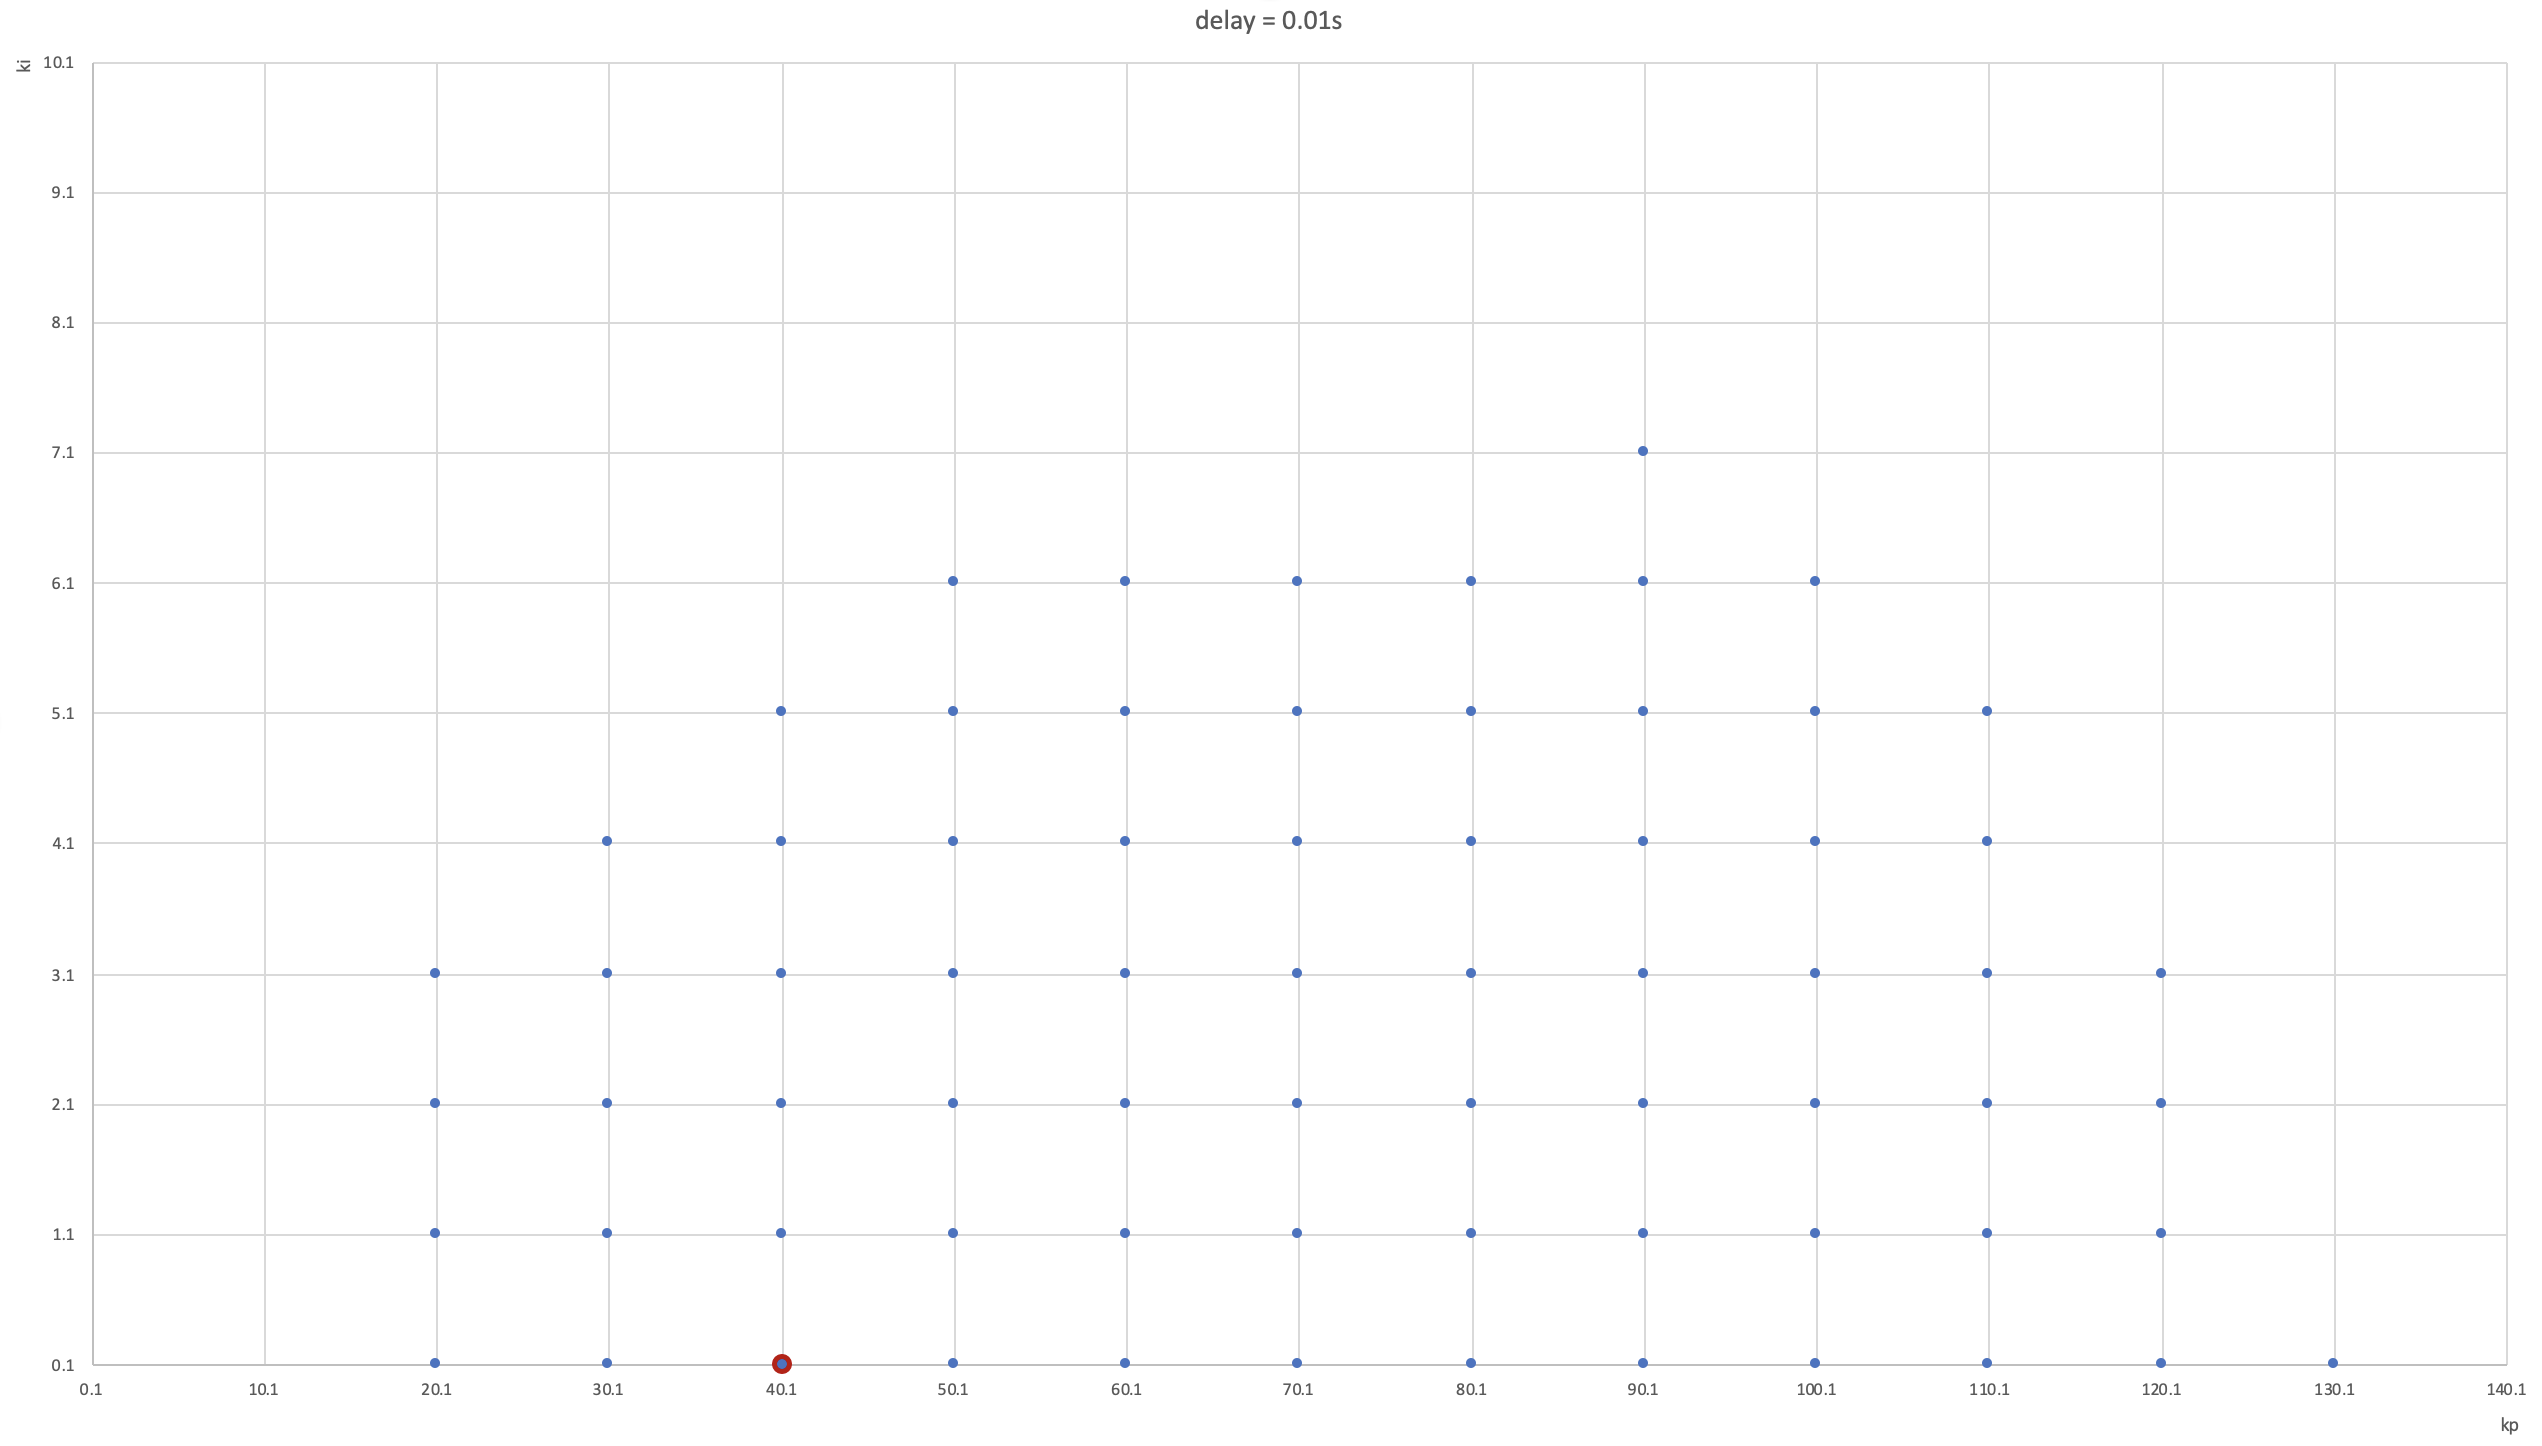
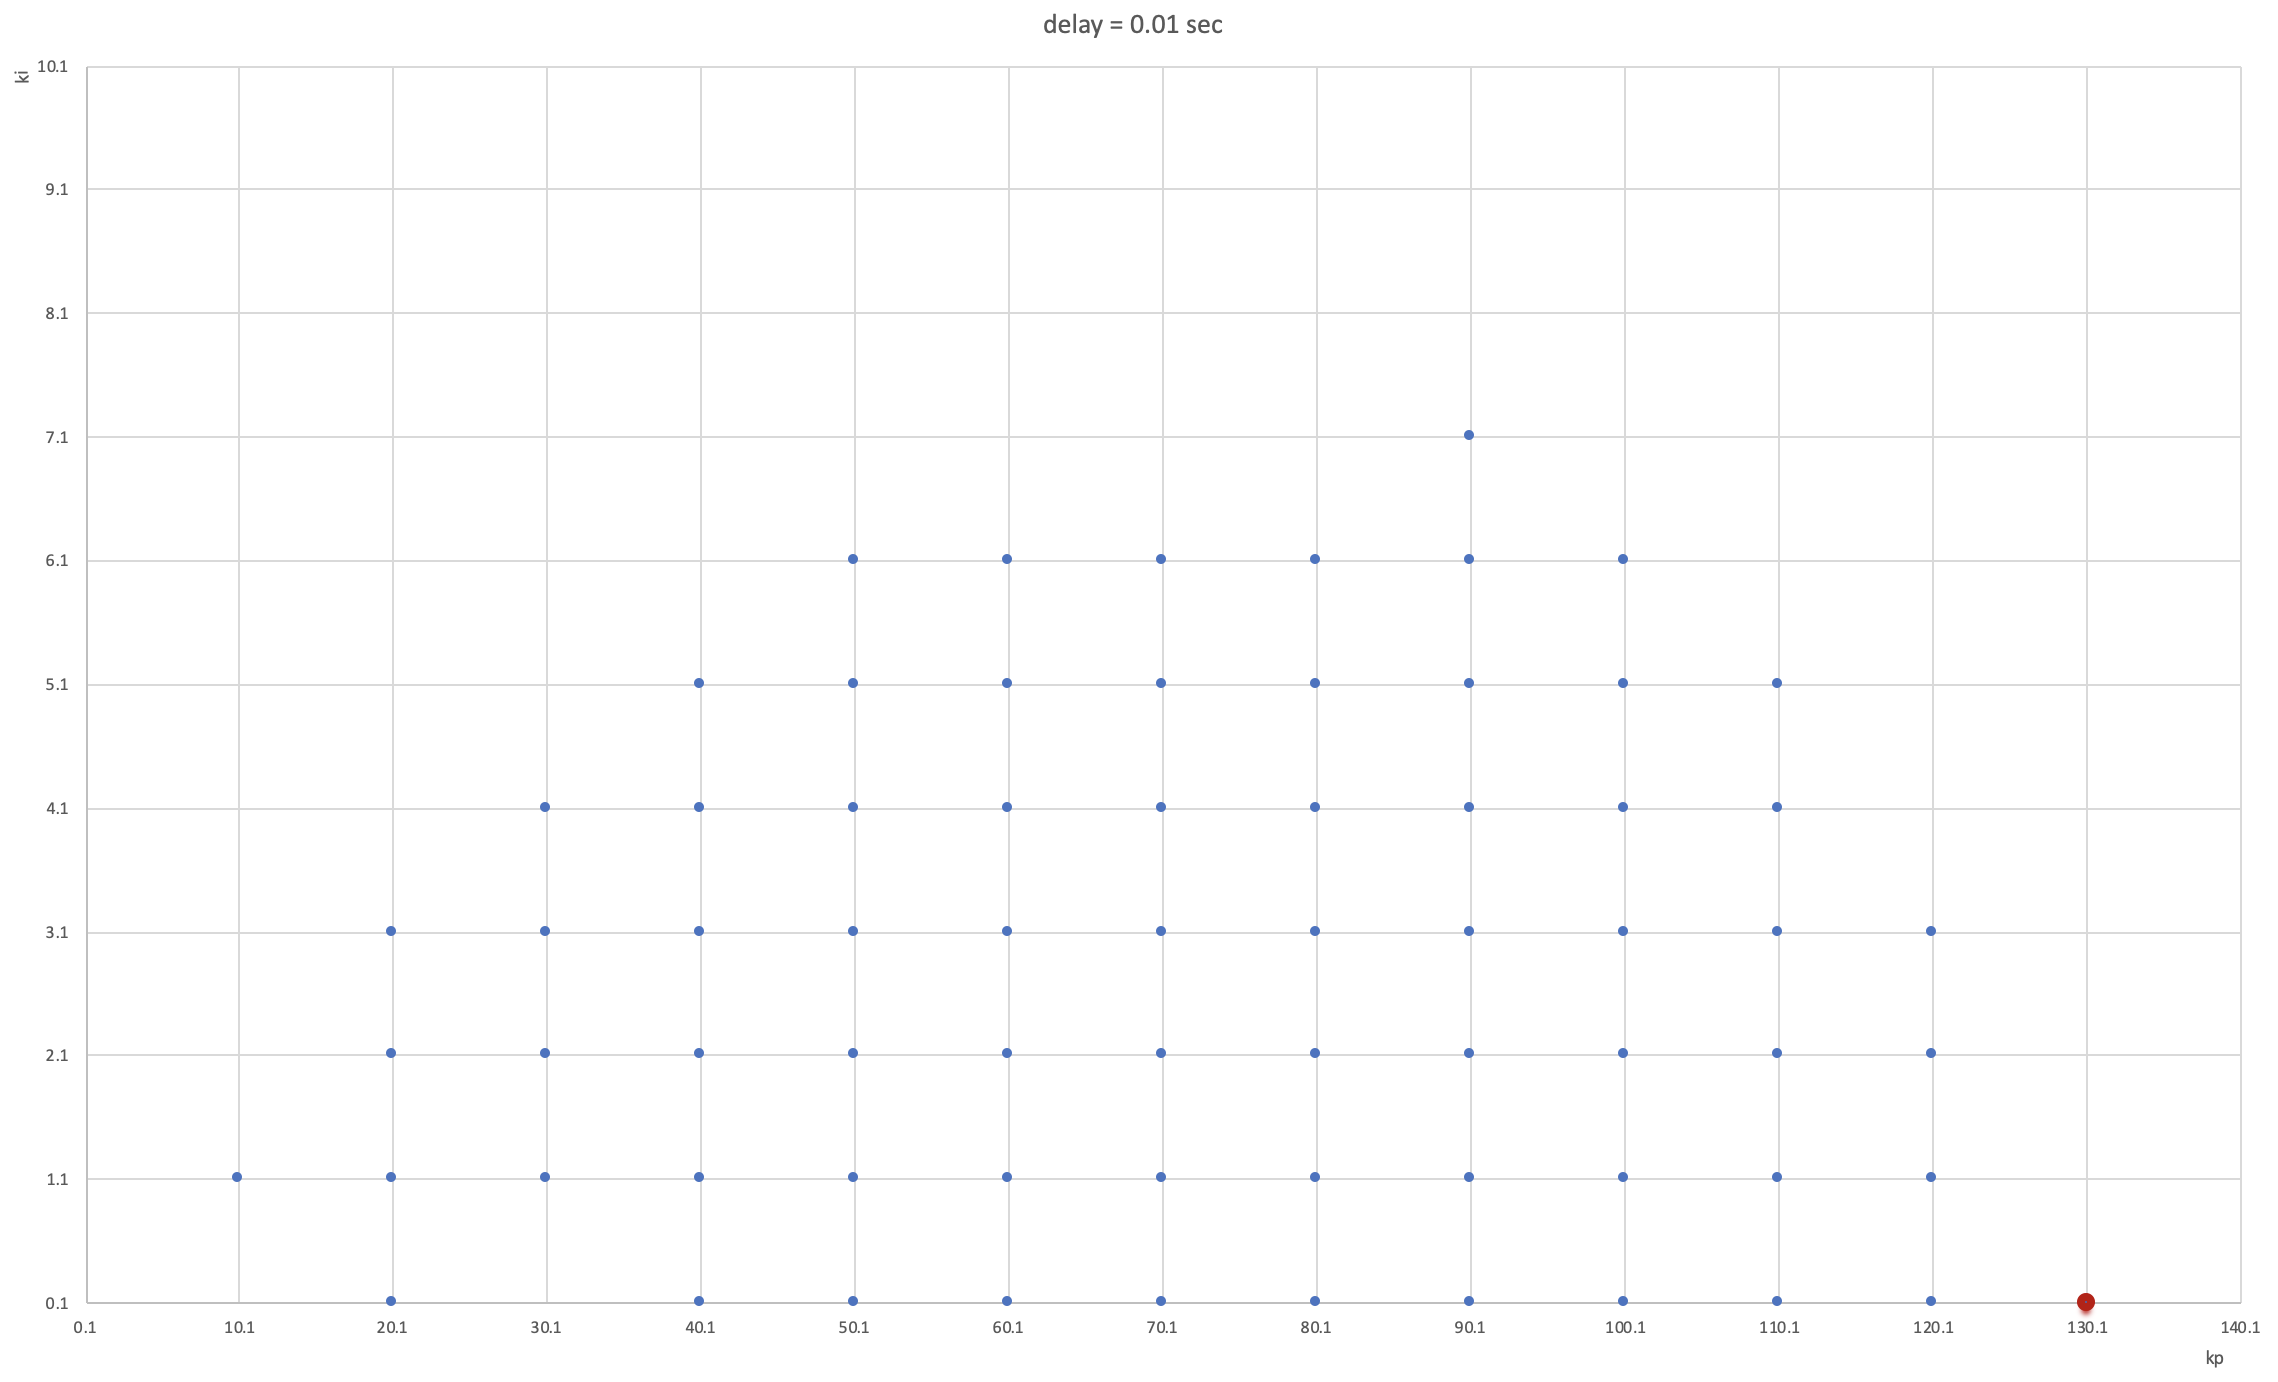
update

diff --git a/report.tex b/report.tex
@@ -429,6 +429,7 @@ to draw a triangle surface plot. Besides, it highlights the results from the sec
 \chapter{Low Time Delay}
 \label{Chapter4} %4
 \section{Hypothesis} %4.1
+\label{section4.1}
 \subsection{Hardware Hypothesis} %4.1.1
 
 In this Chapter, we use the algorithms described in the Chapter 3 to test the well-known Nordic system. One-line diagram of the Nordic test system is  shown in Figure \textcolor{red}{\ref{4_1_1_nordic}}.\\
@@ -560,6 +561,7 @@ Thus, we can set the range of ki between 0.1 and 10.1.
 Besides, we can reset the end time to 240 seconds and the required settling time to 200 seconds since most of the acceptable settling time are smaller than 200 seconds.\\
 
 \section{Expected Outcome} %4.2
+\label{section4.2}
 From discussions before, we know that both kp and ki can not be expanded indefinitely since we have specialised limit for kp and ki in MATLAB program. Thus, firstly, I hope to see a clearly borderline to separate the acceptable results and unacceptable results. The acceptable results will be expressed as blue points in Excel. \\
 
 Secondly, I hope to see a relationship between the best point, which has minimum settling time among all the acceptable results, and other acceptable points. I expect the best point will not in the borderline because the points are unstable in the borderline. \\
@@ -588,6 +590,7 @@ Another noteworthy detail is we need to keep two significant digits for kp, ki a
 
 
 \section{Results} %4.4
+\label{section4.4}
 \subsection{Results and Analysis} %4.4.1
 The implement results are as follows. Figure \textcolor{red}{\ref{4_4_1_result1}} shows all the acceptable signals.
 
@@ -648,7 +651,7 @@ Next, we will show you the relationship between kp and ki.\\
 \begin{figure}[htbp]
 \centering
 \includegraphics[width = .819\textwidth]{figure/4_4_1_2d.png}
-\caption{2d plot}
+\caption{2D plot: All the acceptable tuning results in low time delay.}
 \label{4_4_1_2d}
 \end{figure}
 
@@ -657,17 +660,17 @@ Table \textcolor{red}{\ref{4_4_1_2d}} draws a 2D graph where kp is horizontal ax
 Analysing the Table \textcolor{red}{\ref{4_4_1_2d}}, we can find:\\
 
 \begin{itemize}
-\item The 2D graph shows a clear borderline which separates the acceptable results and unacceptable results. This is in line with the previous expectation from section 4.2;\\
+\item The 2D graph shows a clear borderline which separates the acceptable results and unacceptable results. This is in line with the previous expectation from section \textcolor{red}{\ref{section4.2}};\\
 
 \item The best point is (130.1, 0.1);\\
 
-\item The best point is in the borderline.  This is not in line with the previous expectation from section 4.2;\\
+\item The best point is in the borderline.  This is not in line with the previous expectation from section \textcolor{red}{\ref{section4.2}};\\
 
-\item The best point’s kp value is too large. This is not in line with the previous expectation from section 4.2;\\
+\item The best point’s kp value is too large. This is not in line with the previous expectation from section \textcolor{red}{\ref{section4.2}};\\
 
-\item The best point’s ki value is not too large.  This is in line with the previous expectation from section 4.2;\\
+\item The best point’s ki value is not too large.  This is in line with the previous expectation from section \textcolor{red}{\ref{section4.2}};\\
 
-\item The worst point, i.e. kp is 10.1 and ki is 1.1, shows in the borderline. This is in line with the previous expectation from section 4.2.\\
+\item The worst point, i.e. kp is 10.1 and ki is 1.1, shows in the borderline. This is in line with the previous expectation from section \textcolor{red}{\ref{section4.2}}.\\
 \end{itemize}
 
 Although, for the best point, its kp is the largest to keep the signal can approach the settling status as fast as possible, it is a dangerous situation that will be removed by a higher delay.\\
@@ -689,8 +692,44 @@ Another explanation is that the function of the I-term is to help fixing the ste
 \end{figure}
 
 
+
 \chapter{Impact of Time Delay}
 \label{Chapter5}
+\section{Hypothesis} %5.1
+The hypothesis in this chapter is based on the hypothesis in Section \textcolor{red}{\ref{section4.1}}. \\
+ 
+One of the differences is that it's several delays here, i.e. delay ranges between 0.01 seconds and 0.21 seconds, and the step is 0.01 seconds. \\
+
+It allows having the similar hypothesis with Section \textcolor{red}{\ref{section4.1}} because, in this chapter, it can be seen as an extension of last chapter. In the last chapter, Nordic system is tested in a low delay while, in this chapter, we will increase the delay. \\
+
+An important assumption to allow us keeping other parameters same when increasing the time delay is that a larger time delay will decline the performance of Nordic grid. \\
+
+Another different hypothesis is decreasing the step of ki so that we have more acceptable results. \\
+
+\section{Expected Outcome} %5.2
+From the assumption of a larger delay declining the performance of Nordic grid and the results from Section \textcolor{red}{\ref{section4.4}}, I expect in this chapter,\\
+
+\begin{itemize}
+    \item The acceptable points will less and less if increasing the time delay. \\
+    \item To the best point of different delay, its kp value should be increased when time delay is increased. \\
+\end{itemize}
+
+
+I make the last assumption because I think of my experience of waiting for traffic light. At first I didn't notice the green light until the car behind reminded me. In order to make up for the few seconds I missed, I stepped on the accelerator to increase the speed.\\ 
+
+With the same reason, the signal is faced with time delay problem and it should make up the error by accelerating the speed of it. Thus, kp will increase if time delay increases. \\
+
+\section{Implement} %5.3
+The only difference with Section 4.3 is we need to change the range of time delay. Details are shown as Figure \textcolor{red}{\ref{5_3_code}}. \\
+
+\begin{figure}[htbp]
+\centering
+\includegraphics[width = .819\textwidth]{figure/5_3_code.png}
+\caption{Implement different time delays}
+\label{5_3_code}
+\end{figure}
+
+
 
 
 
